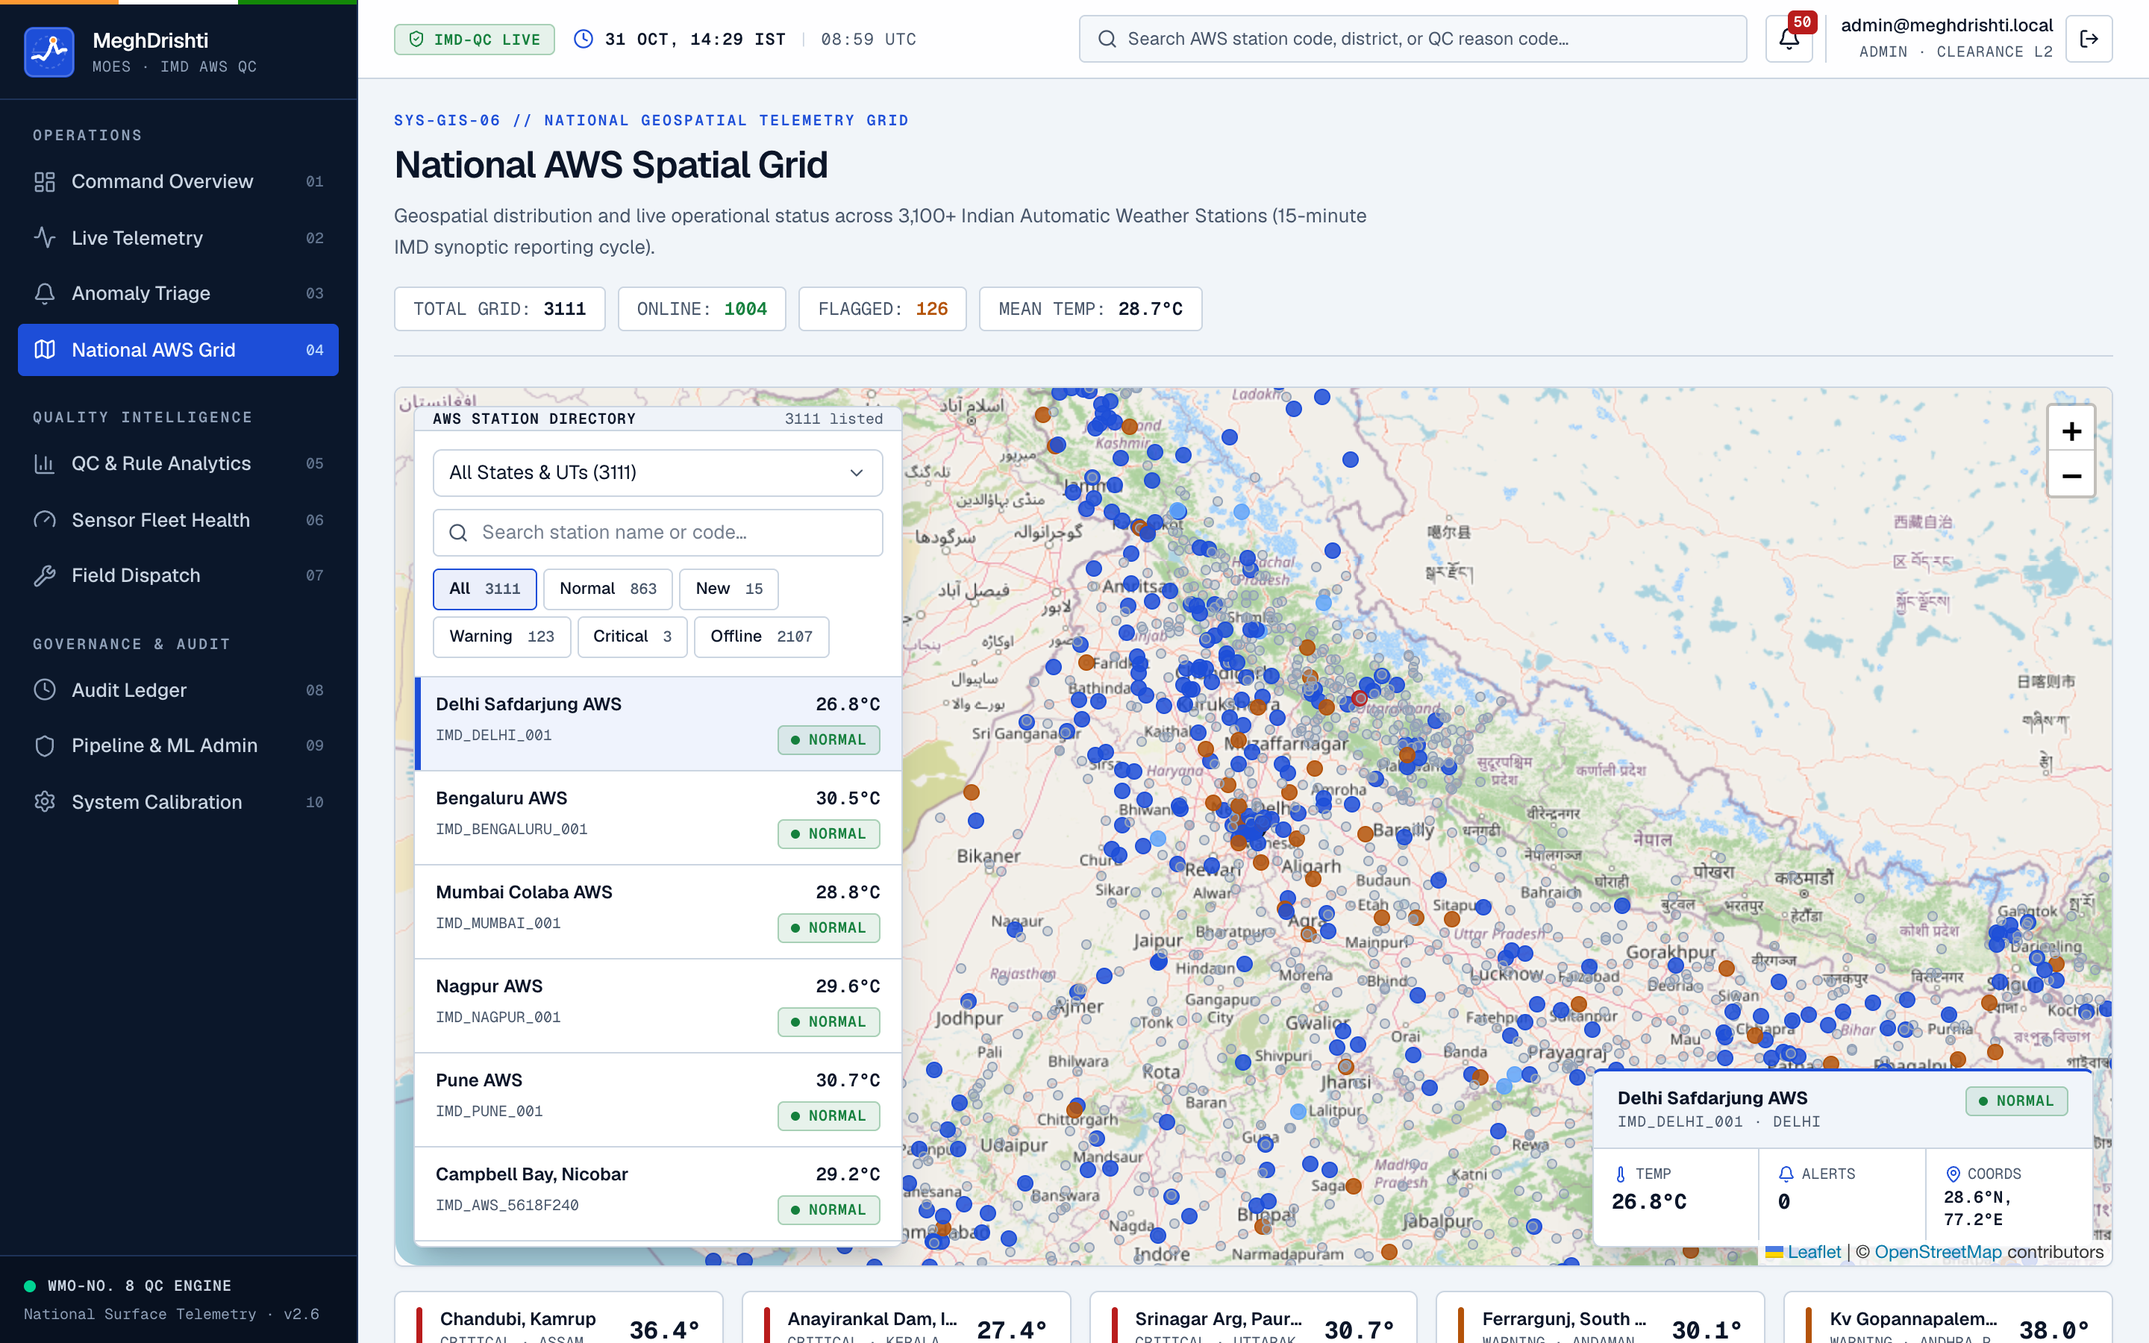
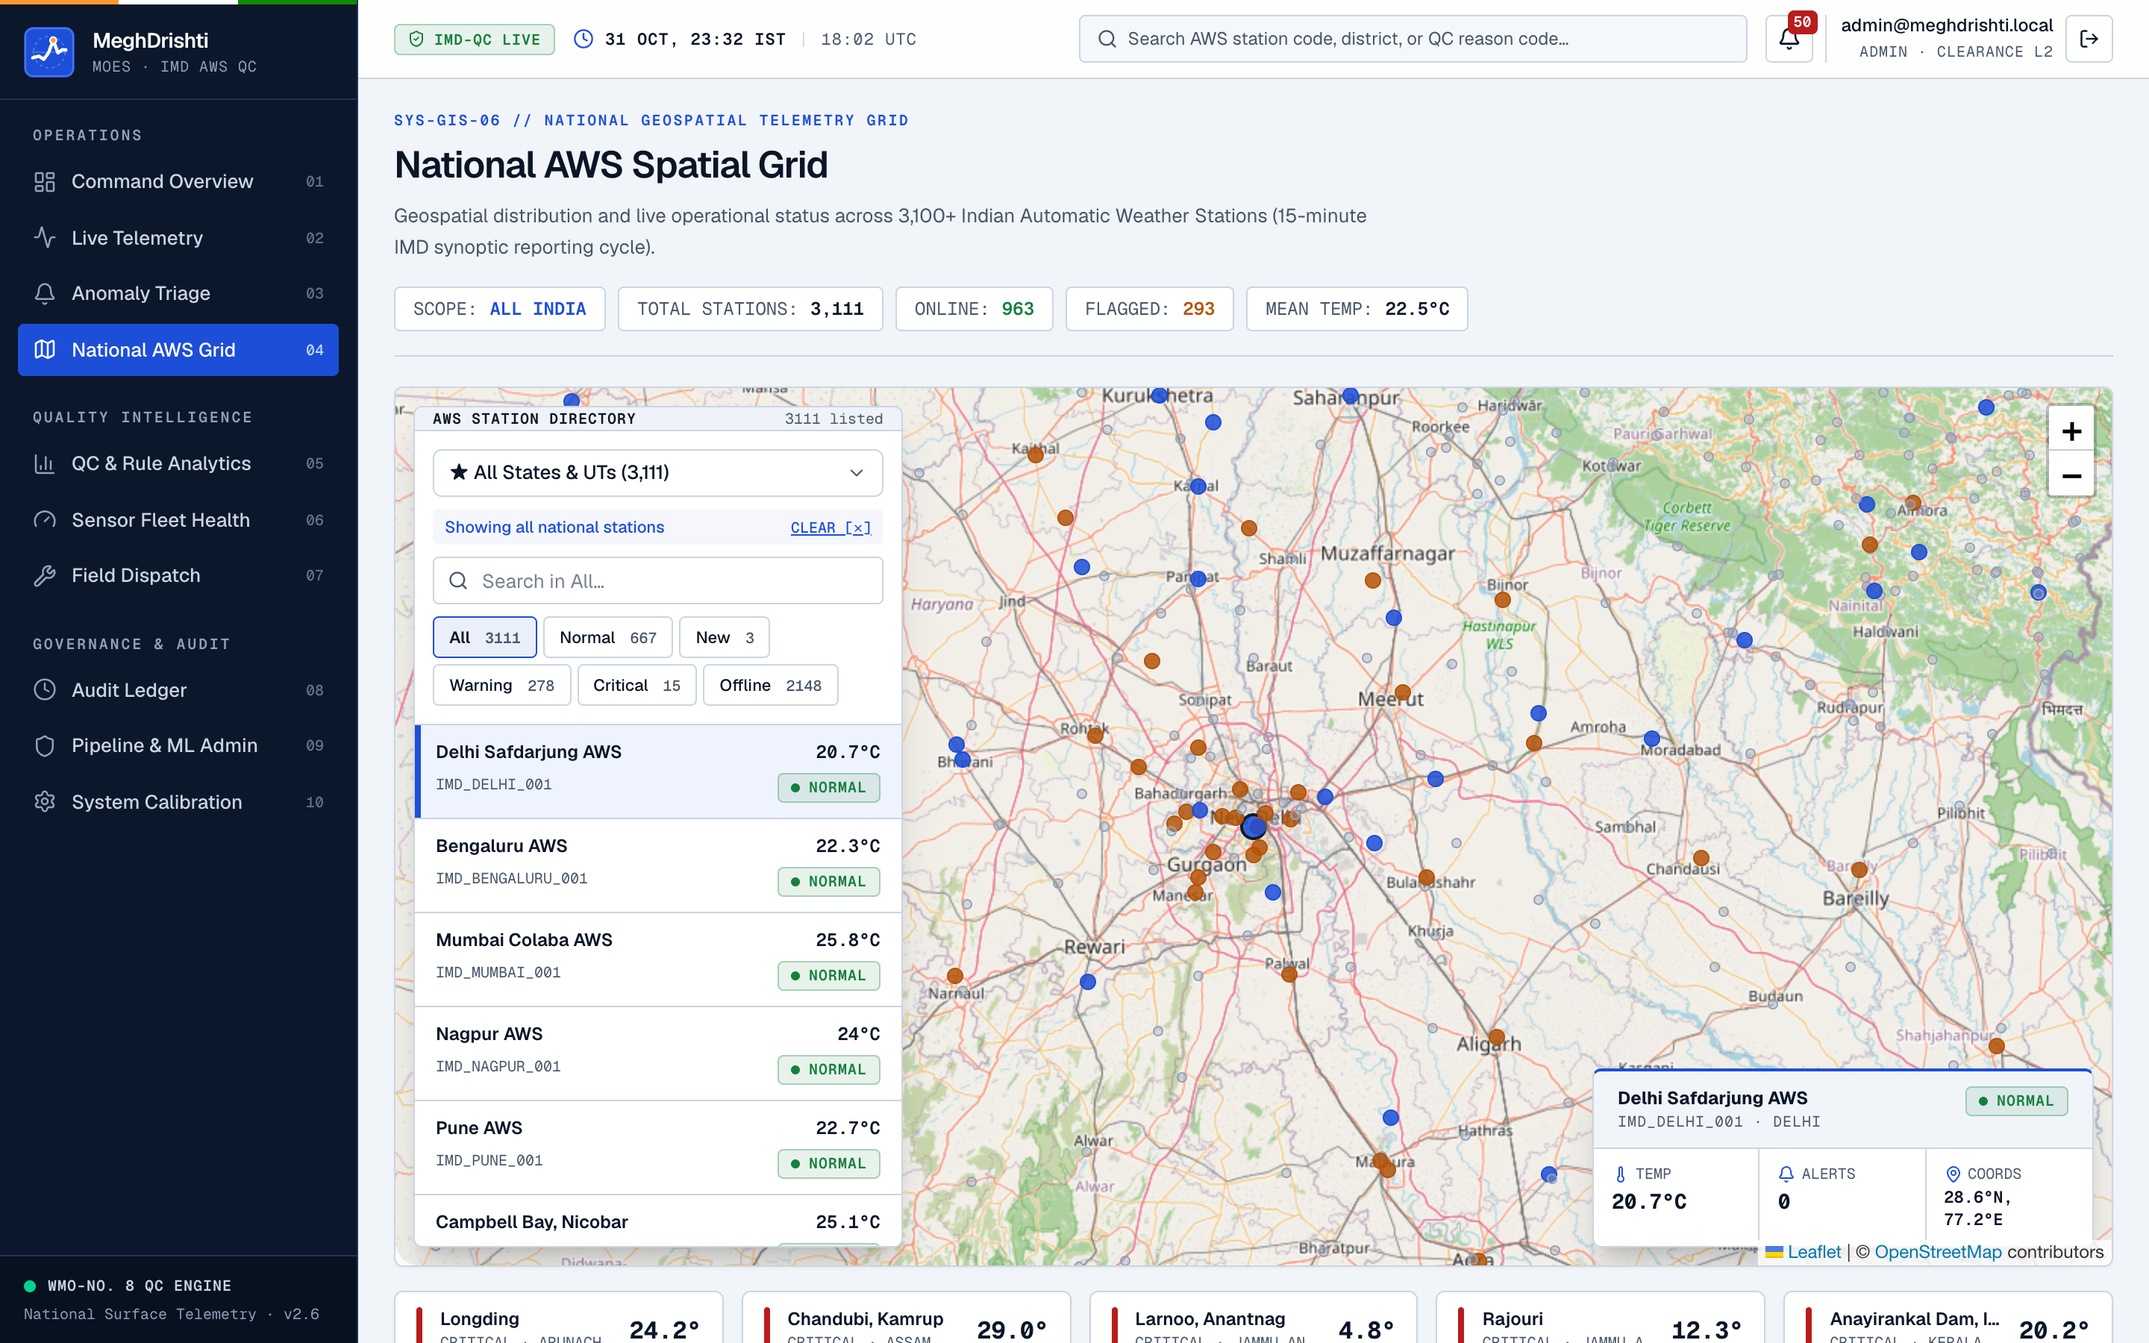
feat(network): display station pointers only for selected state or all states

diff --git a/src/app/(app)/network/page.tsx b/src/app/(app)/network/page.tsx
@@ -1,6 +1,6 @@
 "use client";
 
-import { useMemo, useState } from "react";
+import { useEffect, useMemo, useState } from "react";
 import Link from "next/link";
 import { useSearchParams } from "next/navigation";
 import { ArrowRight, Bell, MapPin, Search, Thermometer } from "lucide-react";
@@ -22,19 +22,43 @@ const order: StationStatus[] = ["normal", "new", "warning", "critical", "offline
 export default function NetworkPage() {
   const stations = useLiveData(fetchStations, [] as Station[]);
   const searchParams = useSearchParams();
-  const [selectedId, setSelectedId] = useState<string>(searchParams.get("station") ?? "");
+  const initialStation = searchParams.get("station") ?? "";
+  const initialRegion = searchParams.get("region") ?? searchParams.get("state") ?? "";
+
+  const [selectedId, setSelectedId] = useState<string>(initialStation);
   const [filter, setFilter] = useState<StationStatus | "all">("all");
   const [query, setQuery] = useState("");
-  const [region, setRegion] = useState("");
+  const [region, setRegion] = useState(initialRegion);
+
+  // If station is specified in URL but region wasn't, sync region when stations load
+  useEffect(() => {
+    if (initialStation && !region && stations.length > 0) {
+      const match = stations.find((s) => s.id === initialStation);
+      if (match?.region) setRegion(match.region);
+    }
+  }, [initialStation, region, stations]);
 
   const regions = useMemo(() => {
     const counts = new Map<string, number>();
-    for (const s of stations) counts.set(s.region ?? "", (counts.get(s.region ?? "") ?? 0) + 1);
+    for (const s of stations) {
+      if (s.region) {
+        counts.set(s.region, (counts.get(s.region) ?? 0) + 1);
+      }
+    }
     return [...counts].sort(([a], [b]) => regionLabel(a).localeCompare(regionLabel(b)));
   }, [stations]);
-  const inRegion = useMemo(() => stations.filter((s) => !region || (s.region ?? "") === region), [stations, region]);
+
+  // Whichever state is selected, only those pointers are displayed.
+  // Pointers are NOT visible until a state has been selected (or "all" states explicitly chosen).
+  const inRegion = useMemo(() => {
+    if (region === "all") return stations;
+    if (region) return stations.filter((s) => (s.region ?? "") === region);
+    return [];
+  }, [stations, region]);
+
   const selected =
-    stations.find((s) => s.id === selectedId) ?? inRegion.find((s) => s.status !== "offline") ?? inRegion[0];
+    (selectedId ? stations.find((s) => s.id === selectedId) : undefined) ??
+    (inRegion.length > 0 ? inRegion.find((s) => s.status !== "offline") ?? inRegion[0] : undefined);
 
   const counts = useMemo(
     () => inRegion.reduce<Record<string, number>>((acc, s) => ({ ...acc, [s.status]: (acc[s.status] ?? 0) + 1 }), {}),
@@ -45,7 +69,10 @@ export default function NetworkPage() {
   const avgTemp = temps.length ? (temps.reduce((a, t) => a + t, 0) / temps.length).toFixed(1) : "-";
   const attention = (counts.warning ?? 0) + (counts.critical ?? 0);
 
-  const visible = inRegion.filter(
+  // If no state is selected and user types a search query, search across all stations
+  const searchBase = region === "" && query.trim() ? stations : inRegion;
+
+  const visible = searchBase.filter(
     (s) =>
       (filter === "all" || s.status === filter) &&
       `${s.name} ${s.id}`.toLowerCase().includes(query.trim().toLowerCase())
@@ -58,7 +85,10 @@ export default function NetworkPage() {
   const kpiBox =
     "inline-flex items-center gap-2 rounded border border-line bg-surface px-3 py-1.5 font-mono text-xs text-sub";
   const rank = { critical: 0, warning: 1, new: 2, normal: 3, offline: 4 } as const;
-  const dock = [...inRegion].sort((a, b) => rank[a.status] - rank[b.status]).slice(0, 5);
+
+  // Dock shows stations for active state, or national top priority stations if no state is selected
+  const dockSource = region ? inRegion : stations;
+  const dock = [...dockSource].sort((a, b) => rank[a.status] - rank[b.status]).slice(0, 5);
 
   return (
     <>
@@ -69,20 +99,26 @@ export default function NetworkPage() {
         actions={
           <>
             <span className={kpiBox}>
-              <span>TOTAL GRID:</span>
-              <b className="font-semibold text-ink">{inRegion.length || "-"}</b>
+              <span>SCOPE:</span>
+              <b className="font-semibold text-accent">
+                {region === "" ? "NO STATE SELECTED" : region === "all" ? "ALL INDIA" : regionLabel(region).toUpperCase()}
+              </b>
+            </span>
+            <span className={kpiBox}>
+              <span>TOTAL STATIONS:</span>
+              <b className="font-semibold text-ink">{region === "" ? "0" : inRegion.length.toLocaleString()}</b>
             </span>
             <span className={kpiBox}>
               <span>ONLINE:</span>
-              <b className="font-semibold text-ok">{online.length}</b>
+              <b className="font-semibold text-ok">{region === "" ? "0" : online.length.toLocaleString()}</b>
             </span>
             <span className={kpiBox}>
               <span>FLAGGED:</span>
-              <b className={`font-semibold ${attention ? "text-warn" : "text-ink"}`}>{attention}</b>
+              <b className={`font-semibold ${attention ? "text-warn" : "text-ink"}`}>{region === "" ? "0" : attention}</b>
             </span>
             <span className={kpiBox}>
               <span>MEAN TEMP:</span>
-              <b className="font-semibold text-ink">{avgTemp}°C</b>
+              <b className="font-semibold text-ink">{region === "" ? "–" : `${avgTemp}°C`}</b>
             </span>
           </>
         }
@@ -97,38 +133,87 @@ export default function NetworkPage() {
           <StationMap stations={inRegion} selectedId={selected?.id} onSelect={(s) => setSelectedId(s.id)} />
         )}
 
+        {/* State Selection Prompt Overlay when no state selected */}
+        {region === "" && stations.length > 0 && (
+          <div className="pointer-events-none absolute inset-x-0 top-5 z-[850] flex justify-center px-4">
+            <div className="pointer-events-auto flex max-w-lg items-center gap-3 rounded-lg border border-line bg-surface/95 px-4 py-3 shadow-xl backdrop-blur-md">
+              <div className="flex h-9 w-9 shrink-0 items-center justify-center rounded-md bg-accent-soft text-accent">
+                <MapPin className="h-5 w-5" />
+              </div>
+              <div className="min-w-0 flex-1">
+                <p className="text-xs font-semibold text-ink">National Geospatial Grid — Select State</p>
+                <p className="text-[11px] text-sub">
+                  Choose a State/UT from the directory to plot telemetry pointers, or view the complete national network.
+                </p>
+              </div>
+              <button
+                type="button"
+                onClick={() => {
+                  setRegion("all");
+                  setSelectedId("");
+                }}
+                className="shrink-0 rounded bg-accent px-2.5 py-1.5 font-mono text-[11px] font-semibold text-white transition-opacity hover:opacity-90 shadow-xs cursor-pointer"
+              >
+                Show All States
+              </button>
+            </div>
+          </div>
+        )}
+
         {/* Docked Left Sub-Division & Station Directory */}
         <aside className="absolute left-3 top-3 z-[900] flex max-h-[calc(100%-1.5rem)] w-[min(20.5rem,calc(100%-1.5rem))] flex-col overflow-hidden rounded-md border border-line bg-surface shadow-xl shadow-ink/15">
           <div className="flex h-9 items-center justify-between border-b border-line bg-raised/70 px-3">
             <span className="font-mono text-[10px] font-semibold uppercase tracking-wider text-ink">
               AWS Station Directory
             </span>
-            <span className="font-mono text-[10px] text-sub">{visible.length} listed</span>
+            <span className="font-mono text-[10px] text-sub">
+              {region === "" && !query.trim() ? "Select State" : `${visible.length} listed`}
+            </span>
           </div>
 
           <div className="space-y-2 border-b border-line p-3 bg-surface">
             <Select
-              aria-label="State"
+              aria-label="Filter by State or UT"
               value={region}
               onChange={(e) => {
                 setRegion(e.target.value);
                 setSelectedId("");
               }}
-              className="w-full"
+              className="w-full text-xs font-medium"
             >
-              <option value="">All States & UTs ({stations.length})</option>
+              <option value="">Select a State / UT…</option>
+              <option value="all">★ All States & UTs ({stations.length.toLocaleString()})</option>
               {regions.map(([r, n]) => (
                 <option key={r} value={r}>
                   {regionLabel(r)} ({n})
                 </option>
               ))}
             </Select>
+
+            {region && (
+              <div className="flex items-center justify-between rounded bg-accent-soft/50 px-2 py-1 text-[11px] font-medium text-accent">
+                <span className="truncate">
+                  {region === "all" ? "Showing all national stations" : `State: ${regionLabel(region)}`}
+                </span>
+                <button
+                  type="button"
+                  onClick={() => {
+                    setRegion("");
+                    setSelectedId("");
+                  }}
+                  className="font-mono text-[10px] uppercase text-sub hover:text-ink underline ml-2 shrink-0 cursor-pointer"
+                >
+                  Clear [✕]
+                </button>
+              </div>
+            )}
+
             <div className="relative">
               <Search className="pointer-events-none absolute left-2.5 top-1/2 h-3.5 w-3.5 -translate-y-1/2 text-sub" />
               <input
                 value={query}
                 onChange={(e) => setQuery(e.target.value)}
-                placeholder="Search station name or code…"
+                placeholder={region ? `Search in ${regionLabel(region)}…` : "Search all stations nationwide…"}
                 aria-label="Search stations"
                 className={`${field} pl-8`}
               />
@@ -136,7 +221,7 @@ export default function NetworkPage() {
             <div className="flex flex-wrap gap-1">
               {(["all", ...order] as const).map((k) => {
                 const on = filter === k;
-                const n = k === "all" ? inRegion.length : counts[k] ?? 0;
+                const n = k === "all" ? searchBase.length : (region ? counts[k] ?? 0 : stations.filter((s) => s.status === k).length);
                 return (
                   <button
                     key={k}
@@ -152,7 +237,24 @@ export default function NetworkPage() {
             </div>
           </div>
 
-          {visible.length === 0 ? (
+          {region === "" && !query.trim() ? (
+            <div className="p-5 text-center">
+              <div className="mx-auto flex h-10 w-10 items-center justify-center rounded-full bg-accent-soft text-accent">
+                <MapPin className="h-5 w-5" />
+              </div>
+              <p className="mt-3 text-xs font-bold text-ink">No State Selected</p>
+              <p className="mt-1 text-[11px] leading-relaxed text-sub">
+                Select a State or Union Territory above to plot its Automatic Weather Stations on the map.
+              </p>
+              <button
+                type="button"
+                onClick={() => setRegion("all")}
+                className="mt-3 inline-flex items-center gap-1.5 rounded border border-line bg-surface px-3 py-1.5 font-mono text-[11px] font-semibold text-ink hover:bg-raised transition-colors shadow-xs cursor-pointer"
+              >
+                Or plot All States ({stations.length.toLocaleString()})
+              </button>
+            </div>
+          ) : visible.length === 0 ? (
             <Empty>{stations.length ? "No stations match filter" : "Awaiting stations"}</Empty>
           ) : (
             <ul className="min-h-0 flex-1 overflow-y-auto divide-y divide-line">
@@ -161,7 +263,12 @@ export default function NetworkPage() {
                 return (
                   <li key={s.id}>
                     <button
-                      onClick={() => setSelectedId(s.id)}
+                      onClick={() => {
+                        if (region === "" && s.region) {
+                          setRegion(s.region);
+                        }
+                        setSelectedId(s.id);
+                      }}
                       aria-pressed={active}
                       className={`relative grid w-full grid-cols-[1fr_auto] items-center gap-x-3 px-3.5 py-2.5 text-left transition-colors ${
                         active ? "bg-accent-soft/80" : "hover:bg-raised/60"
@@ -253,7 +360,12 @@ export default function NetworkPage() {
           return (
             <button
               key={s.id}
-              onClick={() => setSelectedId(s.id)}
+              onClick={() => {
+                if (s.region && region !== "all") {
+                  setRegion(s.region);
+                }
+                setSelectedId(s.id);
+              }}
               className={`${card} flex min-w-0 items-center gap-3 px-3.5 py-2.5 text-left transition-colors hover:border-accent/50 ${
                 on ? "border-accent ring-1 ring-accent bg-accent-soft/20" : ""
               }`}

diff --git a/src/components/LeafletMapScene.tsx b/src/components/LeafletMapScene.tsx
@@ -1,6 +1,6 @@
 "use client";
 
-import { useEffect } from "react";
+import { useEffect, useRef } from "react";
 import { MapContainer, TileLayer, CircleMarker, Tooltip, Popup, ZoomControl, useMap } from "react-leaflet";
 import "leaflet/dist/leaflet.css";
 import { statusMeta, type Alert, type Station } from "@/lib/mock-data";
@@ -34,11 +34,75 @@ const OSM_TILE = {
   attribution: '&copy; <a href="https://www.openstreetmap.org/copyright">OpenStreetMap</a> contributors',
 };
 
-function FlyToSelected({ station }: { station: Station }) {
+function MapViewportController({
+  stations,
+  selectedStation,
+}: {
+  stations: Station[];
+  selectedStation?: Station;
+}) {
   const map = useMap();
+  const prevSelectedIdRef = useRef<string | undefined>(undefined);
+  const prevStationsSigRef = useRef<string>("");
+
   useEffect(() => {
-    map.flyTo([station.lat, station.lon], Math.max(map.getZoom(), 6), { duration: 0.8 });
-  }, [station, map]);
+    // 1. If a specific station was selected/changed by the user
+    if (selectedStation && selectedStation.id !== prevSelectedIdRef.current) {
+      prevSelectedIdRef.current = selectedStation.id;
+      map.flyTo([selectedStation.lat, selectedStation.lon], Math.max(map.getZoom(), 8), {
+        duration: 0.8,
+      });
+      return;
+    }
+    prevSelectedIdRef.current = selectedStation?.id;
+
+    // 2. If the station collection changed (e.g., state selected, switched, or cleared)
+    const sig = `${stations.length}:${stations[0]?.id ?? ""}:${stations[stations.length - 1]?.id ?? ""}`;
+    if (sig !== prevStationsSigRef.current) {
+      prevStationsSigRef.current = sig;
+
+      if (stations.length === 0) {
+        // Return to pan-India overview
+        map.setView([22.5, 80], 5, { animate: true });
+        return;
+      }
+
+      if (selectedStation) return;
+
+      const valid = stations.filter(
+        (s) => typeof s.lat === "number" && typeof s.lon === "number" && !isNaN(s.lat) && !isNaN(s.lon)
+      );
+      if (valid.length === 0) return;
+
+      if (valid.length === 1) {
+        map.flyTo([valid[0].lat, valid[0].lon], 9, { duration: 0.8 });
+      } else {
+        const lats = valid.map((s) => s.lat);
+        const lons = valid.map((s) => s.lon);
+        const minLat = Math.min(...lats);
+        const maxLat = Math.max(...lats);
+        const minLon = Math.min(...lons);
+        const maxLon = Math.max(...lons);
+
+        if (minLat === maxLat && minLon === maxLon) {
+          map.flyTo([minLat, minLon], 9, { duration: 0.8 });
+        } else {
+          map.fitBounds(
+            [
+              [minLat, minLon],
+              [maxLat, maxLon],
+            ],
+            {
+              padding: [48, 48],
+              maxZoom: 10,
+              duration: 0.8,
+            }
+          );
+        }
+      }
+    }
+  }, [stations, selectedStation, map]);
+
   return null;
 }
 
@@ -131,7 +195,7 @@ export default function LeafletMapScene({
         );
       })}
 
-      {selected && <FlyToSelected station={selected} />}
+      <MapViewportController stations={stations} selectedStation={selected} />
     </MapContainer>
   );
 }
